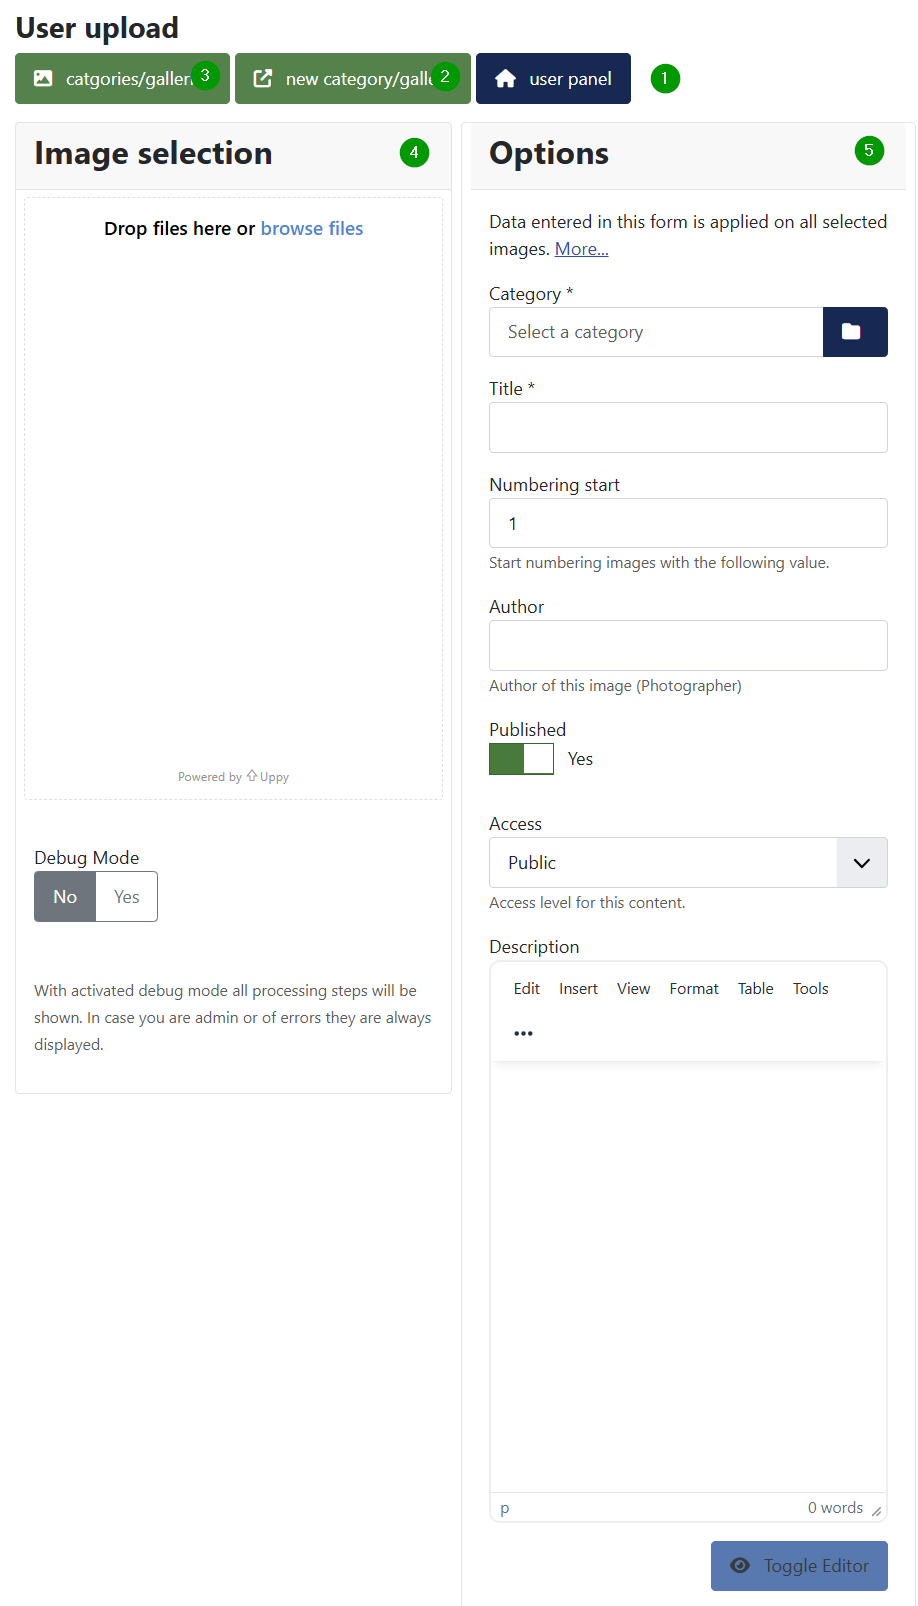
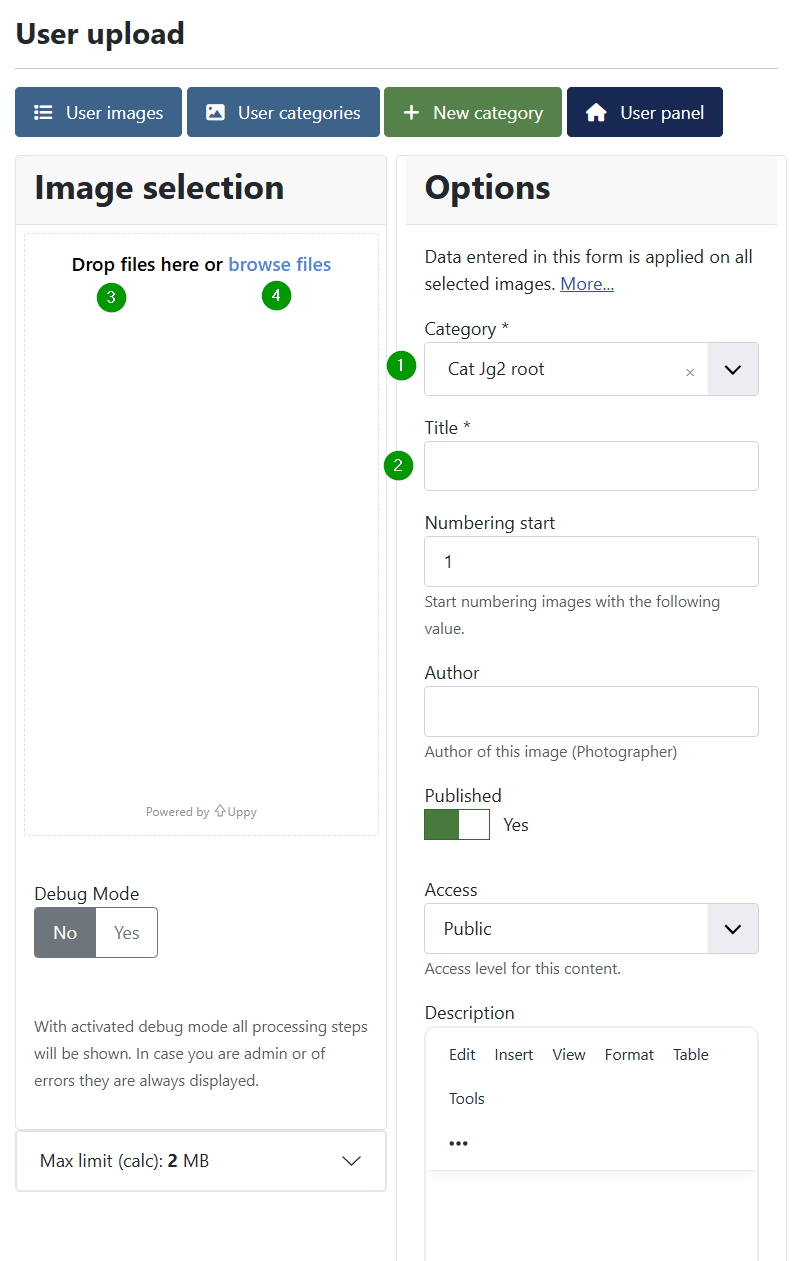
Completed 03.useruploadView.md description

diff --git a/.jg_dev_doc/jg_4x/site/userUpload/03.UserUploadView.en.md b/.jg_dev_doc/jg_4x/site/userUpload/03.UserUploadView.en.md
@@ -1,18 +1,75 @@
+## User Upload
 
-
+### User Upload Page 
 ![Upload form (complete)](https://github.com/ThomasFinnern/JoomGallery_fith_dev/blob/main/.jg_dev_doc/jg_4x/images/site.UserUpload/userUpload.full.en.png?raw=true  "")
 
+### Fast track to upload an image 
+(1) Select the "category" the image should belong to  
+(2) Select the title   
+(3) Drag images into are here or   
+(4) Browse with a file selector  
+to fill the images list like below
+(5) Click on "Upload files" to start the upload process (See below)
 
 ![Image selection: (dragged images)](https://github.com/ThomasFinnern/JoomGallery_fith_dev/blob/main/.jg_dev_doc/jg_4x/images/site.UserUpload/imageSelection.dragged.en.png?raw=true  "")
 
+### Image selection view
+
+Posibilities in Image selection view:  
+(1) Cancel: Remove all images  
+(2) "+": Add more files   
+(3) Edit or delete a file   
+(4) Drop more images into this area  
+(5) Start uploading the displayed images   
+(6) Debug Mode: On Yes (must be dark) extra messages tell about the state of the upload process
+
+### Image edit view
 
 ![Image selection: Edit image property](https://github.com/ThomasFinnern/JoomGallery_fith_dev/blob/main/.jg_dev_doc/jg_4x/images/site.UserUpload/imageSelection.imgEdit.en.png?raw=true  "")
 
+Posibilities in Upload section: 
+(1) Cancel: reset changes made locally  
+(2) Change title, Dascription, Author the image  
+(3) Save the changes   
+(4) Cancel: go back  
 
-![Image selection: Upload failed](https://github.com/ThomasFinnern/JoomGallery_fith_dev/blob/main/.jg_dev_doc/jg_4x/images/site.UserUpload/imageSelection.uploadFailed.en.png?raw=true  "")
-
+### Upload options 
 
 ![Upload options](https://github.com/ThomasFinnern/JoomGallery_fith_dev/blob/main/.jg_dev_doc/jg_4x/images/site.UserUpload/userUploadForm.options.en.png?raw=true  "")
 
+Posibilities in :  
+(1) Select the "category" the image should belong to  
+(2) Select the title   
+(3) Starts numbering images with the given value   
+(4) Author may be different from uploader anme  
+(5) Should the images be visible direct after upload finished   
+(6) Which group should be able to see the images   
+(7) Add a description to the ??? category  
+(8) Change the Editor input form from "writer/word" to HTML text view and back   
 
+### Upload size limits (php, ...)
+
+![Maximum Limits (php, ...)](https://github.com/ThomasFinnern/JoomGallery_fith_dev/blob/main/.jg_dev_doc/jg_4x/images/site.UserUpload/maxLimit.en.png?raw=true  "")
+
+The maximum size of an image in the upload process is limited by several factors.
+
+
+Posibilities in Upload size limits (php, ...):
+(1) Title which is always displayed. Tells the expected maximum from following sources  
+(2) Maximum upload size: Set in php.ini  
+(3) Maximum post size: Set in php.ini   
+(4) Maximum memory size: Set in php.ini  (memory a PHP script can use)
+(5) : Set in php.ini   
+(6) : Set in joomgallery configuration   
+
+### Uplod failed
+
+![Image selection: Upload failed](https://github.com/ThomasFinnern/JoomGallery_fith_dev/blob/main/.jg_dev_doc/jg_4x/images/site.UserUpload/imageSelection.uploadFailed.en.png?raw=true  "")
+
+Posibilities in :  
+(1)   
+(2)   
+(3)    
+(4)   
+(5)    
 
